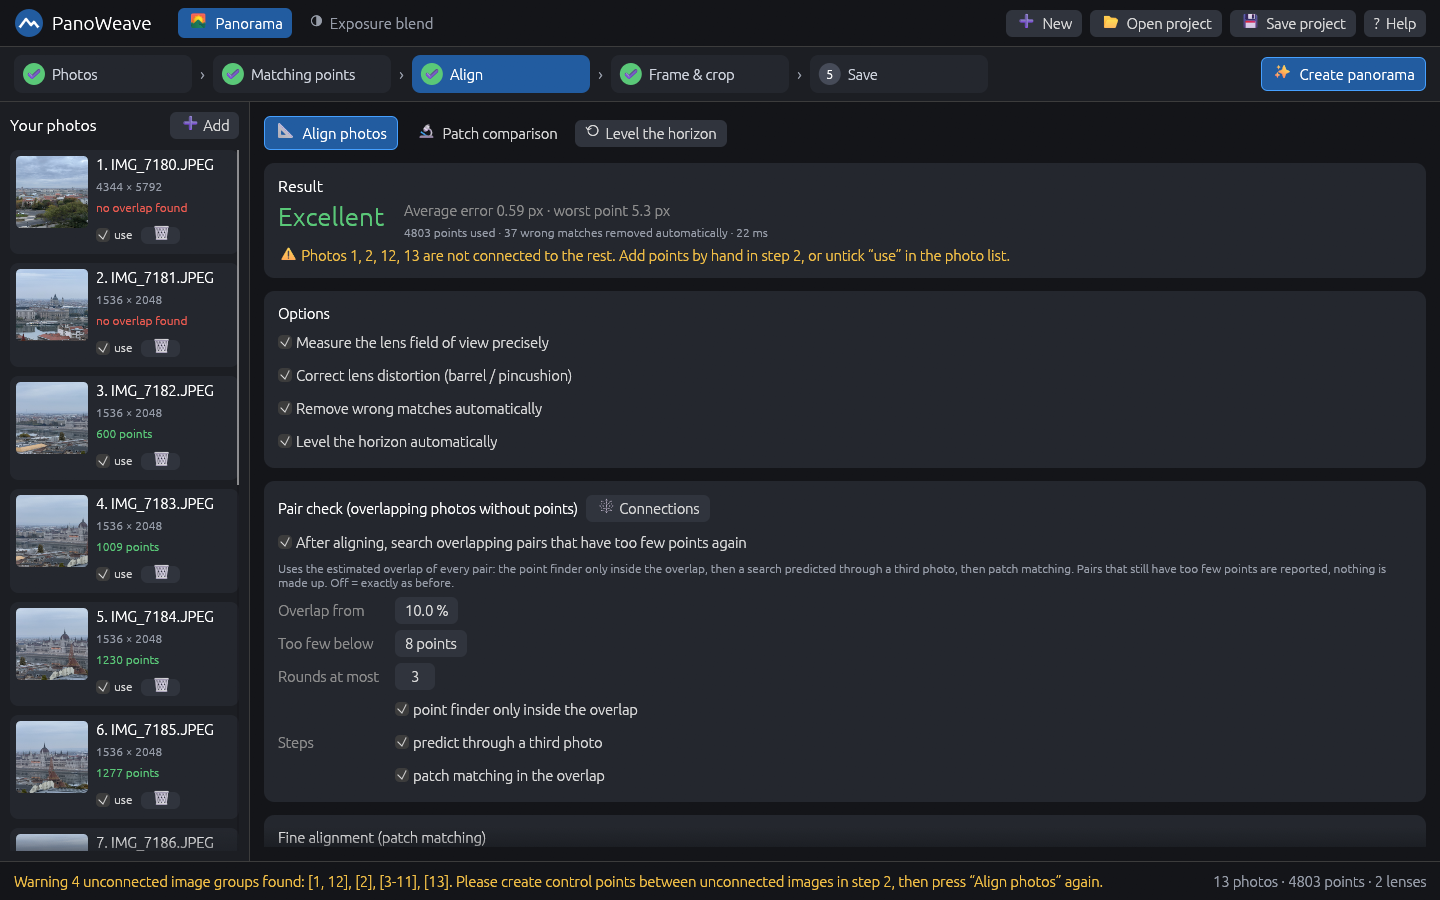
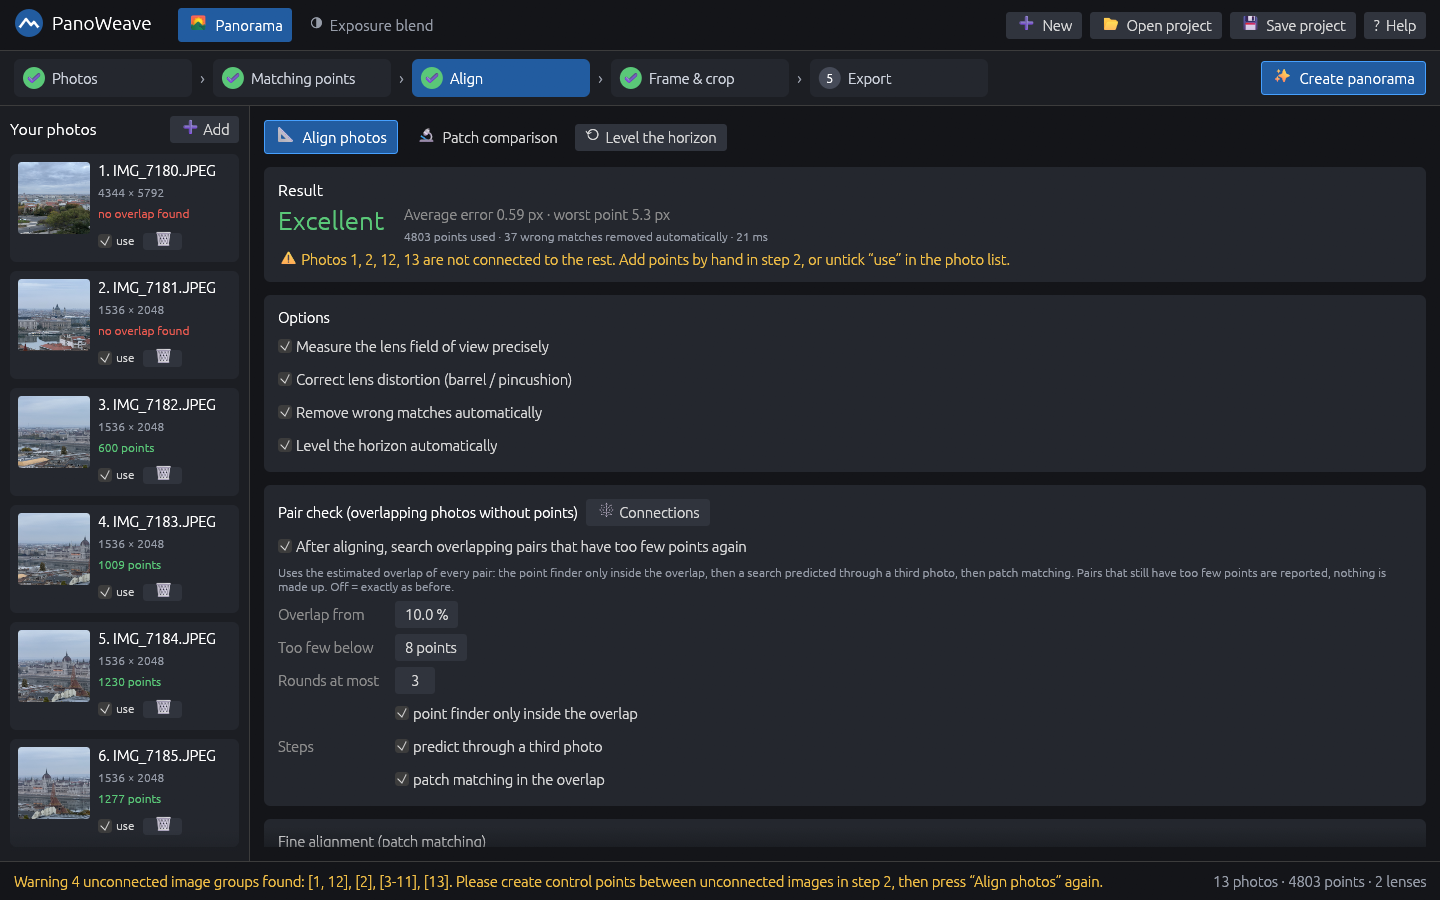
GUI: even corner radii everywhere, square image surfaces (#46)
Hand-written radii now use RADIUS / RADIUS_CARD; image surfaces square (RADIUS_CANVAS = 0); thumbnails get the small radius; a test rejects written radius numbers; README screenshots taken again.

diff --git a/src/app/ui_helpers.rs b/src/app/ui_helpers.rs
@@ -190,4 +190,61 @@ mod tests {
         assert_eq!(st.spacing.interact_size.y, ROW_H);
         assert!(RADIUS < RADIUS_CARD && BIG_H > ROW_H);
     }
+
+    /// The arguments of the call that starts at `open` (the index just after its `(`), split at top-level commas.
+    fn call_args(src: &str, open: usize) -> Vec<String> {
+        let (mut depth, mut cur, mut out) = (0i32, String::new(), Vec::new());
+        for ch in src[open..].chars() {
+            match ch {
+                '(' | '[' | '{' => depth += 1,
+                ')' | ']' | '}' if depth == 0 => break,
+                ')' | ']' | '}' => depth -= 1,
+                ',' if depth == 0 => {
+                    out.push(std::mem::take(&mut cur).trim().to_string());
+                    continue;
+                }
+                _ => {}
+            }
+            cur.push(ch);
+        }
+        out.push(cur.trim().to_string());
+        out
+    }
+
+    /// Every corner radius in the UI code comes from `RADIUS`, `RADIUS_CARD` or `RADIUS_CANVAS`; a number written
+    /// into a painter call (other than 0) is what made the corners uneven before.
+    #[test]
+    fn no_hand_written_corner_radius_in_the_ui() {
+        let root = std::path::Path::new(env!("CARGO_MANIFEST_DIR")).join("src");
+        let mut files: Vec<_> = std::fs::read_dir(root.join("app")).unwrap().map(|e| e.unwrap().path()).collect();
+        files.extend(["patch_window.rs", "patch_viz.rs"].map(|f| root.join(f)));
+        // (call, index of the radius argument)
+        let calls = [("rect_filled(", 1), ("rect_stroke(", 1), ("CornerRadius::same(", 0), (".corner_radius(", 0)];
+        let mut bad = Vec::new();
+        for f in files.iter().filter(|f| f.extension().is_some_and(|e| e == "rs")) {
+            let all = std::fs::read_to_string(f).unwrap();
+            // test code draws nothing
+            let src = all.split("#[cfg(test)]").next().unwrap_or_default();
+            for (call, arg) in calls {
+                for (at, _) in src.match_indices(call) {
+                    let Some(a) = call_args(src, at + call.len()).into_iter().nth(arg) else { continue };
+                    let num = a.trim_end_matches("f32").trim_end_matches("u8").trim_end_matches('_');
+                    if num.parse::<f32>().is_ok_and(|v| v != 0.0) {
+                        let line = src[..at].lines().count();
+                        bad.push(format!("{}:{line}: {call}… {a}", f.file_name().unwrap().to_string_lossy()));
+                    }
+                }
+            }
+        }
+        assert!(bad.is_empty(), "use RADIUS / RADIUS_CARD / RADIUS_CANVAS instead of:
+{}", bad.join("
+"));
+    }
+
+    #[test]
+    fn the_radius_check_finds_a_written_number() {
+        let src = "p.rect_filled(Rect::from_min_max(a, b), 8.0, fill);";
+        let at = src.find("rect_filled(").unwrap() + "rect_filled(".len();
+        assert_eq!(call_args(src, at), ["Rect::from_min_max(a, b)", "8.0", "fill"]);
+    }
 }

diff --git a/src/app/connections.rs b/src/app/connections.rs
@@ -288,9 +288,9 @@ impl PanoApp {
                         let p = ui.painter();
                         let dup = dup_of.get(&k);
                         if sel {
-                            p.rect_filled(rect, 3.0, ACCENT_DARK);
+                            p.rect_filled(rect, f32::from(RADIUS), ACCENT_DARK);
                         } else if resp.hovered() {
-                            p.rect_filled(rect, 3.0, Color32::from_rgb(48, 52, 61));
+                            p.rect_filled(rect, f32::from(RADIUS), Color32::from_rgb(48, 52, 61));
                         } else if dup.is_some() {
                             p.rect_filled(rect, 0.0, Color32::from_rgb(64, 48, 24));
                         } else if sky_of.contains_key(&k) {
@@ -631,7 +631,7 @@ impl PanoApp {
             let size = Vec2::new(ui.available_width(), 330.0);
             let (rect, resp) = ui.allocate_exact_size(size, Sense::click());
             let painter = ui.painter_at(rect);
-            painter.rect_filled(rect, 6.0, Color32::from_rgb(24, 26, 31));
+            painter.rect_filled(rect, f32::from(RADIUS_CARD), Color32::from_rgb(24, 26, 31));
             let inner = rect.shrink(28.0);
             // positions: from the alignment (direction of each photo's centre), else a circle
             let main_group: Vec<usize> = groups.iter().max_by_key(|g| g.len()).cloned().unwrap_or_default();
@@ -727,7 +727,7 @@ impl PanoApp {
                     let t = &self.photos[i].thumb;
                     let s = t.size_vec2();
                     let k = (120.0 / s.y.max(1.0)).min(220.0 / s.x.max(1.0));
-                    let thumb = ui.add(egui::Image::new((t.id(), s * k)).sense(Sense::click()));
+                    let thumb = ui.add(egui::Image::new((t.id(), s * k)).corner_radius(CornerRadius::same(RADIUS)).sense(Sense::click()));
                     photo_choice = self.photo_menu(&thumb, i);
                     ui.vertical(|ui| {
                         ui.label(RichText::new(format!("{}. {}", i + 1, self.photos[i].name)).strong());

diff --git a/src/patch_window.rs b/src/patch_window.rs
@@ -18,6 +18,7 @@ use crate::fine_align::{self, FineStats};
 use crate::patch_matcher;
 use crate::patch_store::{self as ps, Change, Event, LiveFrame, PatchData, PatchState, Phase, RoundInfo, Status, STORE};
 use crate::patch_viz::{self as pv, Colormap, DiffSpace, HeatMode};
+use crate::app::RADIUS;
 use crate::stitch::{Mapper, PanoView};
 use egui::{Align2, Color32, FontId, Pos2, Rect, RichText, Sense, Stroke, StrokeKind, TextureHandle, TextureOptions, Vec2};
 use image::RgbImage;
@@ -1531,10 +1532,10 @@ impl PatchWindow {
                     }
                     p.rect_filled(rect, 0.0, fill);
                     if self.sel.contains(&d.id) {
-                        p.rect_stroke(rect.shrink(1.0), 2.0, Stroke::new(2.0, Color32::from_rgb(70, 160, 255)), StrokeKind::Inside);
+                        p.rect_stroke(rect.shrink(1.0), f32::from(RADIUS), Stroke::new(2.0, Color32::from_rgb(70, 160, 255)), StrokeKind::Inside);
                     }
                     if self.detail == Some(d.id) {
-                        p.rect_stroke(rect.shrink(3.0), 2.0, Stroke::new(1.0, text_col), StrokeKind::Inside);
+                        p.rect_stroke(rect.shrink(3.0), f32::from(RADIUS), Stroke::new(1.0, text_col), StrokeKind::Inside);
                     }
                     let disabled = st.status == Status::DisabledManual;
                     let mut x = rect.min.x;
@@ -1671,7 +1672,7 @@ impl PatchWindow {
                 p.text(r.right_top() + Vec2::new(-4.0, 2.0), Align2::RIGHT_TOP, "✕ uncorrected", FontId::proportional(10.0), C_RED);
             }
         } else {
-            p.rect_filled(r, 2.0, Color32::from_gray(70));
+            p.rect_filled(r, f32::from(RADIUS), Color32::from_gray(70));
             p.text(r.center(), Align2::CENTER_CENTER, "…", FontId::proportional(14.0), Color32::from_gray(200));
         }
         if !fresh && !self.thumb_pending.contains(&d.id) && self.thumb_pending.len() < THUMB_JOBS_MAX {

diff --git a/src/app/photos.rs b/src/app/photos.rs
@@ -401,14 +401,14 @@ impl PanoApp {
                 let (rect, resp) = ui.allocate_exact_size(Vec2::new(avail.x.min(720.0), 300.0), Sense::click());
                 let p = ui.painter();
                 let hovered = resp.hovered() || ui.ctx().input(|i| !i.raw.hovered_files.is_empty());
-                p.rect_filled(rect, 18.0, if hovered { Color32::from_rgb(34, 44, 60) } else { Color32::from_rgb(30, 33, 40) });
+                p.rect_filled(rect, f32::from(RADIUS_CARD), if hovered { Color32::from_rgb(34, 44, 60) } else { Color32::from_rgb(30, 33, 40) });
                 dashed_rect(p, rect.shrink(6.0), if hovered { ACCENT } else { Color32::from_rgb(80, 86, 100) });
                 // illustration: three overlapping frames
                 let c = rect.center() - Vec2::new(0.0, 60.0);
                 for (k, dx) in [-46.0f32, 0.0, 46.0].iter().enumerate() {
                     let r = Rect::from_center_size(c + Vec2::new(*dx, (k as f32 - 1.0).abs() * 4.0), Vec2::new(70.0, 50.0));
-                    p.rect_filled(r, 6.0, [Color32::from_rgb(52, 92, 140), Color32::from_rgb(64, 120, 180), Color32::from_rgb(52, 92, 140)][k]);
-                    p.rect_stroke(r, 6.0, Stroke::new(2.0, Color32::from_rgb(170, 205, 255)), StrokeKind::Inside);
+                    p.rect_filled(r, f32::from(RADIUS), [Color32::from_rgb(52, 92, 140), Color32::from_rgb(64, 120, 180), Color32::from_rgb(52, 92, 140)][k]);
+                    p.rect_stroke(r, f32::from(RADIUS), Stroke::new(2.0, Color32::from_rgb(170, 205, 255)), StrokeKind::Inside);
                 }
                 p.text(rect.center() + Vec2::new(0.0, 10.0), Align2::CENTER_CENTER, "Drop your photos here", FontId::proportional(24.0), Color32::WHITE);
                 p.text(

diff --git a/src/app/masks_ui.rs b/src/app/masks_ui.rs
@@ -134,14 +134,17 @@ impl PanoApp {
                 let (rect, resp) = ui.allocate_exact_size(Vec2::new(ui.available_width(), 56.0), Sense::click());
                 let sel = i == self.mk.sel;
                 let fill = if sel { Color32::from_rgb(38, 50, 68) } else if resp.hovered() { Color32::from_rgb(44, 48, 57) } else { PANEL };
-                ui.painter().rect_filled(rect, 6.0, fill);
+                ui.painter().rect_filled(rect, f32::from(RADIUS_CARD), fill);
                 if sel {
-                    ui.painter().rect_stroke(rect, 6.0, Stroke::new(1.5, ACCENT), StrokeKind::Inside);
+                    ui.painter().rect_stroke(rect, f32::from(RADIUS_CARD), Stroke::new(1.5, ACCENT), StrokeKind::Inside);
                 }
                 let ts = p.thumb.size_vec2();
                 let tw = 64.0f32.min(50.0 * ts.x / ts.y);
                 let tr = Rect::from_min_size(rect.min + Vec2::new(4.0, 3.0), Vec2::new(tw, tw * ts.y / ts.x));
-                ui.painter().image(p.thumb.id(), tr, Rect::from_min_max(Pos2::ZERO, Pos2::new(1.0, 1.0)), if p.enabled { Color32::WHITE } else { Color32::from_gray(90) });
+                egui::Image::new(egui::load::SizedTexture::new(p.thumb.id(), tr.size()))
+                    .corner_radius(CornerRadius::same(RADIUS))
+                    .tint(if p.enabled { Color32::WHITE } else { Color32::from_gray(90) })
+                    .paint_at(ui, tr);
                 let tx = rect.min.x + 72.0;
                 ui.painter().text(Pos2::new(tx, rect.min.y + 8.0), Align2::LEFT_TOP, format!("{}. {}", i + 1, p.name), FontId::proportional(12.5), Color32::WHITE);
                 let (t, c) = if p.mask.any() { ("● has a mask", MASK_GREEN) } else { ("no mask", MUTED) };

diff --git a/src/app/points_panes.rs b/src/app/points_panes.rs
@@ -63,7 +63,7 @@ impl PanoApp {
         let scale = fit * v.zoom;
         let origin = rect.center() - v.center * scale;
         geo[pane.i()] = PaneGeo { rect, origin, scale, fit, w: w as f32, h: h as f32 };
-        painter.rect_filled(rect, 8.0, BG);
+        painter.rect_filled(rect, f32::from(RADIUS_CANVAS), BG);
         let img_rect = Rect::from_min_size(origin, Vec2::new(w as f32 * scale, h as f32 * scale));
         let tex_id = self.full_tex.get(&idx).map(|t| t.id()).or_else(|| self.photos[idx].tex.as_ref().map(|t| t.id()));
         let d = PaneDraw { pane, idx, rect, origin, scale, v, tex_id, img_rect };
@@ -339,7 +339,7 @@ impl PanoApp {
                     let full_h = self.photos[idx].h as f32;
                     let hx = 0.5 * MAGNIFIER_WIDTH / full_w;
                     let hy = 0.5 * MAGNIFIER_WIDTH / full_h;
-                    painter.rect_filled(lr.expand(3.0), 6.0, Color32::BLACK);
+                    painter.rect_filled(lr.expand(3.0), f32::from(RADIUS_CARD), Color32::BLACK);
                     painter.image(t, lr, Rect::from_min_max(Pos2::new(u.x - hx, u.y - hy), Pos2::new(u.x + hx, u.y + hy)), Color32::WHITE);
                     painter.line_segment([lr.center() - Vec2::new(10.0, 0.0), lr.center() + Vec2::new(10.0, 0.0)], Stroke::new(1.0, Color32::from_rgb(255, 80, 80)));
                     painter.line_segment([lr.center() - Vec2::new(0.0, 10.0), lr.center() + Vec2::new(0.0, 10.0)], Stroke::new(1.0, Color32::from_rgb(255, 80, 80)));

diff --git a/src/app/consts.rs b/src/app/consts.rs
@@ -32,9 +32,12 @@ pub(super) const IMAGE_CACHE_UPPER_BOUND: u64 = 268435456; // 0x10000000
 pub(super) const FALLBACK_EXPORT_BUDGET: u64 = 2 << 30;
 // ---- Central style values (used by `setup_style`, `card`, `primary_button` and every hand-made frame) ----
 /// Corner radius of buttons, fields, combo boxes, checkboxes and thumbnails (small, so controls look flat and tidy).
-pub(super) const RADIUS: u8 = 3;
+pub(crate) const RADIUS: u8 = 3;
 /// Corner radius of cards, tiles and windows.
-pub(super) const RADIUS_CARD: u8 = 6;
+pub(crate) const RADIUS_CARD: u8 = 6;
+/// Corner radius of the big image surfaces (point editor panes, preview, mask canvas): square, so a zoomed
+/// photo that fills the surface does not poke its square corners over a rounded edge.
+pub(crate) const RADIUS_CANVAS: u8 = 0;
 /// Gap between neighbouring elements (`item_spacing.x`); also the unit for padding inside tiles.
 pub(super) const GAP: f32 = 8.0;
 /// Vertical gap between rows (`item_spacing.y`).

diff --git a/src/app/chrome.rs b/src/app/chrome.rs
@@ -81,7 +81,7 @@ impl PanoApp {
                         } else {
                             CARD
                         };
-                        p.rect_filled(rect, 8.0, fill);
+                        p.rect_filled(rect, f32::from(RADIUS_CARD), fill);
                         let cc = rect.left_center() + Vec2::new(20.0, 0.0);
                         p.circle_filled(cc, 11.0, if done { GOOD } else if sel { ACCENT } else { Color32::from_rgb(70, 75, 88) });
                         p.text(cc, Align2::CENTER_CENTER, if done { "✔".to_string() } else { format!("{}", k + 1) }, FontId::proportional(13.0), Color32::WHITE);

diff --git a/src/app/masks_canvas.rs b/src/app/masks_canvas.rs
@@ -40,7 +40,7 @@ impl PanoApp {
         let origin = rect.center() - self.mk.view.center * scale;
         self.mk.geo = PaneGeo { rect, origin, scale, fit, w: w as f32, h: h as f32 };
         let geo = self.mk.geo;
-        painter.rect_filled(rect, 8.0, BG);
+        painter.rect_filled(rect, f32::from(RADIUS_CANVAS), BG);
         let img_rect = Rect::from_min_size(origin, Vec2::new(w as f32 * scale, h as f32 * scale));
         let full = Rect::from_min_max(Pos2::ZERO, Pos2::new(1.0, 1.0));
         if let Some(t) = self.photos[sel].tex.as_ref() {

diff --git a/src/app/masks_seams.rs b/src/app/masks_seams.rs
@@ -82,7 +82,7 @@ impl PanoApp {
         if let Some(t) = &self.mk.seam_tex {
             let s = t.size_vec2();
             let w = ui.available_width().min(420.0);
-            ui.add(egui::Image::new(egui::load::SizedTexture::new(t.id(), Vec2::new(w, w * s.y / s.x))));
+            ui.add(egui::Image::new(egui::load::SizedTexture::new(t.id(), Vec2::new(w, w * s.y / s.x))).corner_radius(CornerRadius::same(RADIUS)));
         }
         if self.mk.seam_rx.is_some() {
             ui.horizontal(|ui| {

diff --git a/src/app/frame.rs b/src/app/frame.rs
@@ -104,7 +104,7 @@ impl PanoApp {
         );
         let avail = ui.available_size() - Vec2::new(0.0, 4.0);
         let (resp, painter) = ui.allocate_painter(avail, Sense::click_and_drag());
-        painter.rect_filled(resp.rect, 8.0, BG);
+        painter.rect_filled(resp.rect, f32::from(RADIUS_CANVAS), BG);
         let aspect = self.view.aspect() as f32;
         let mut r = resp.rect.shrink(10.0);
         if r.width() / r.height() > aspect {

diff --git a/src/app/mod.rs b/src/app/mod.rs
@@ -38,6 +38,7 @@ mod ui_helpers;
 mod viewport_window;
 
 pub use self::types::PanoApp;
+pub(crate) use self::consts::RADIUS;
 use self::{connections::*, consts::*, export::*, points_panes::*, types::*, ui_helpers::*};
 
 use crate::align::{ControlPoint, Lens};
